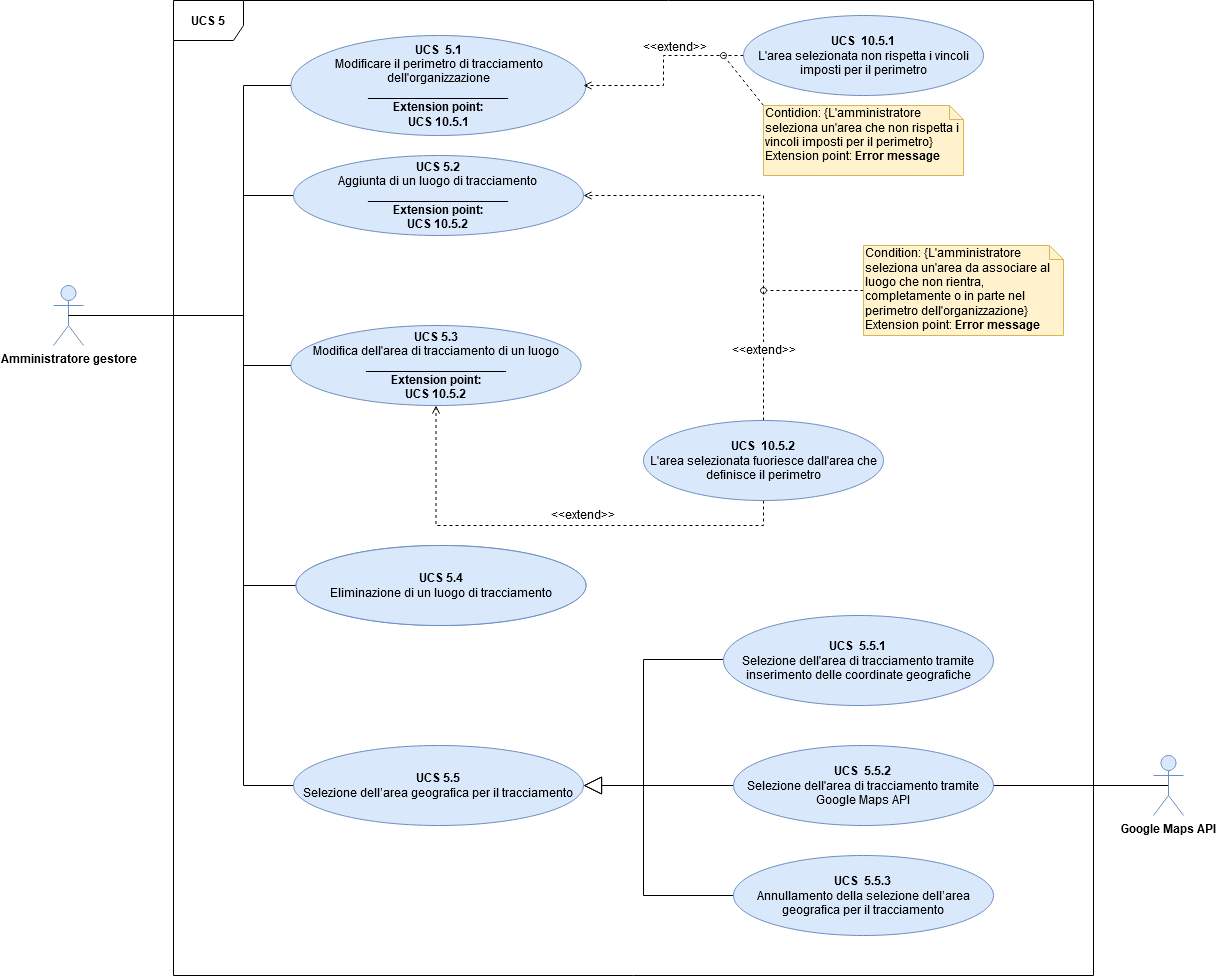
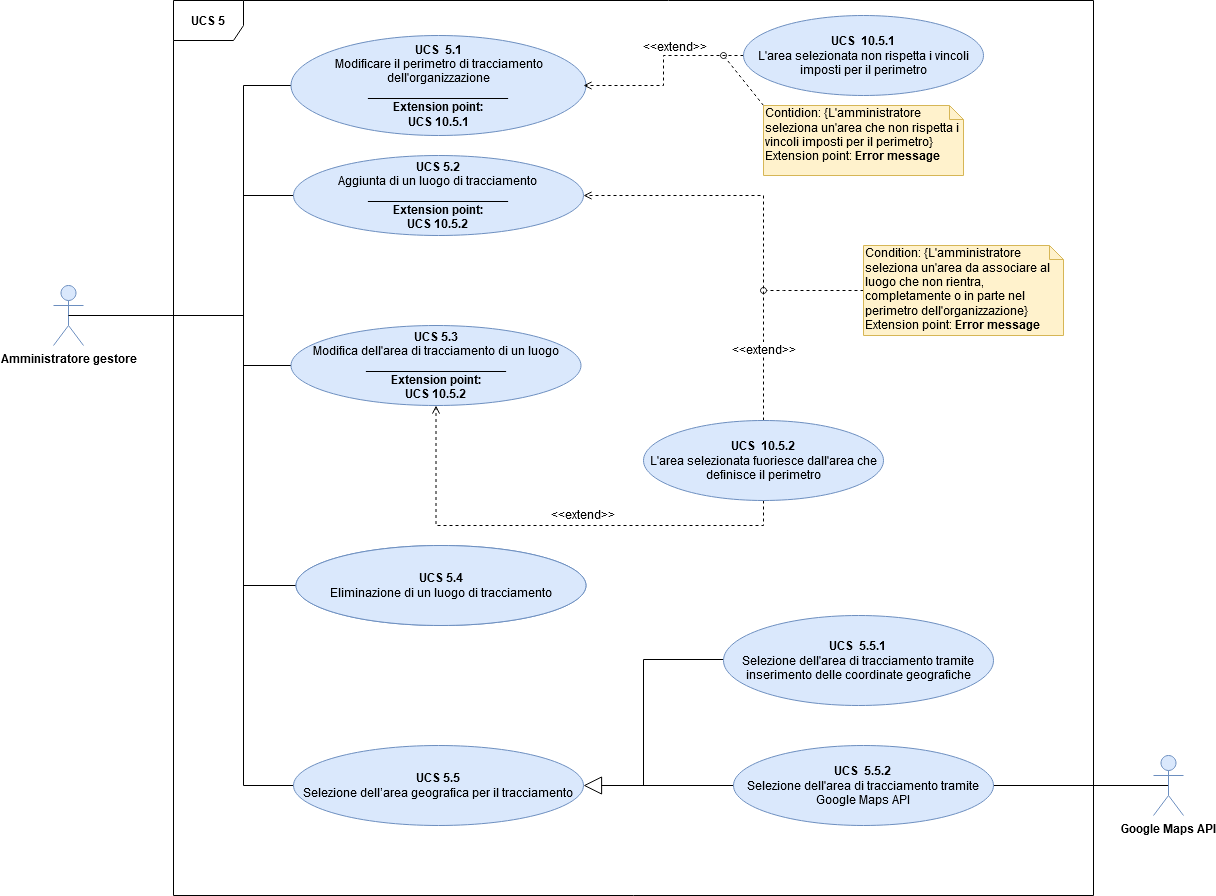
#174

diff --git a/DocumentazioneEsterna/AnalisiDeiRequisiti/Sezioni/UseCase/UCS5.tex b/DocumentazioneEsterna/AnalisiDeiRequisiti/Sezioni/UseCase/UCS5.tex
@@ -107,6 +107,11 @@
 
 \subsubsection{UCS 5.5 - Selezione dell'area geografica per il tracciamento}%sea level
 
+\begin{figure}[h]
+	\centering
+    \includegraphics[scale=0.50]{Sezioni/UseCase/Immagini/UCS5.5.png}
+    \caption{UCS 5.5 - Selezione dell'area geografica per il tracciamento}
+\end{figure}
 
 \begin{itemize}
 \item \textbf{Attori primari:} Amministratore gestore
@@ -165,9 +170,5 @@
     \begin{enumerate}
     \item L'amministratore seleziona la funzionalità per l'annullamento della selezione dell'area geografica;
     \item L'amministratore conferma di voler uscire dalla funzionalità di selezione dell'area geografica.
-    \end{enumerate}
-    \item \textbf{Generalizzazione:}
-	\begin{enumerate}
-        \item UCS 5.5 - Selezione dell'area geografica per il tracciamento;
     \end{enumerate}
 \end{itemize}
